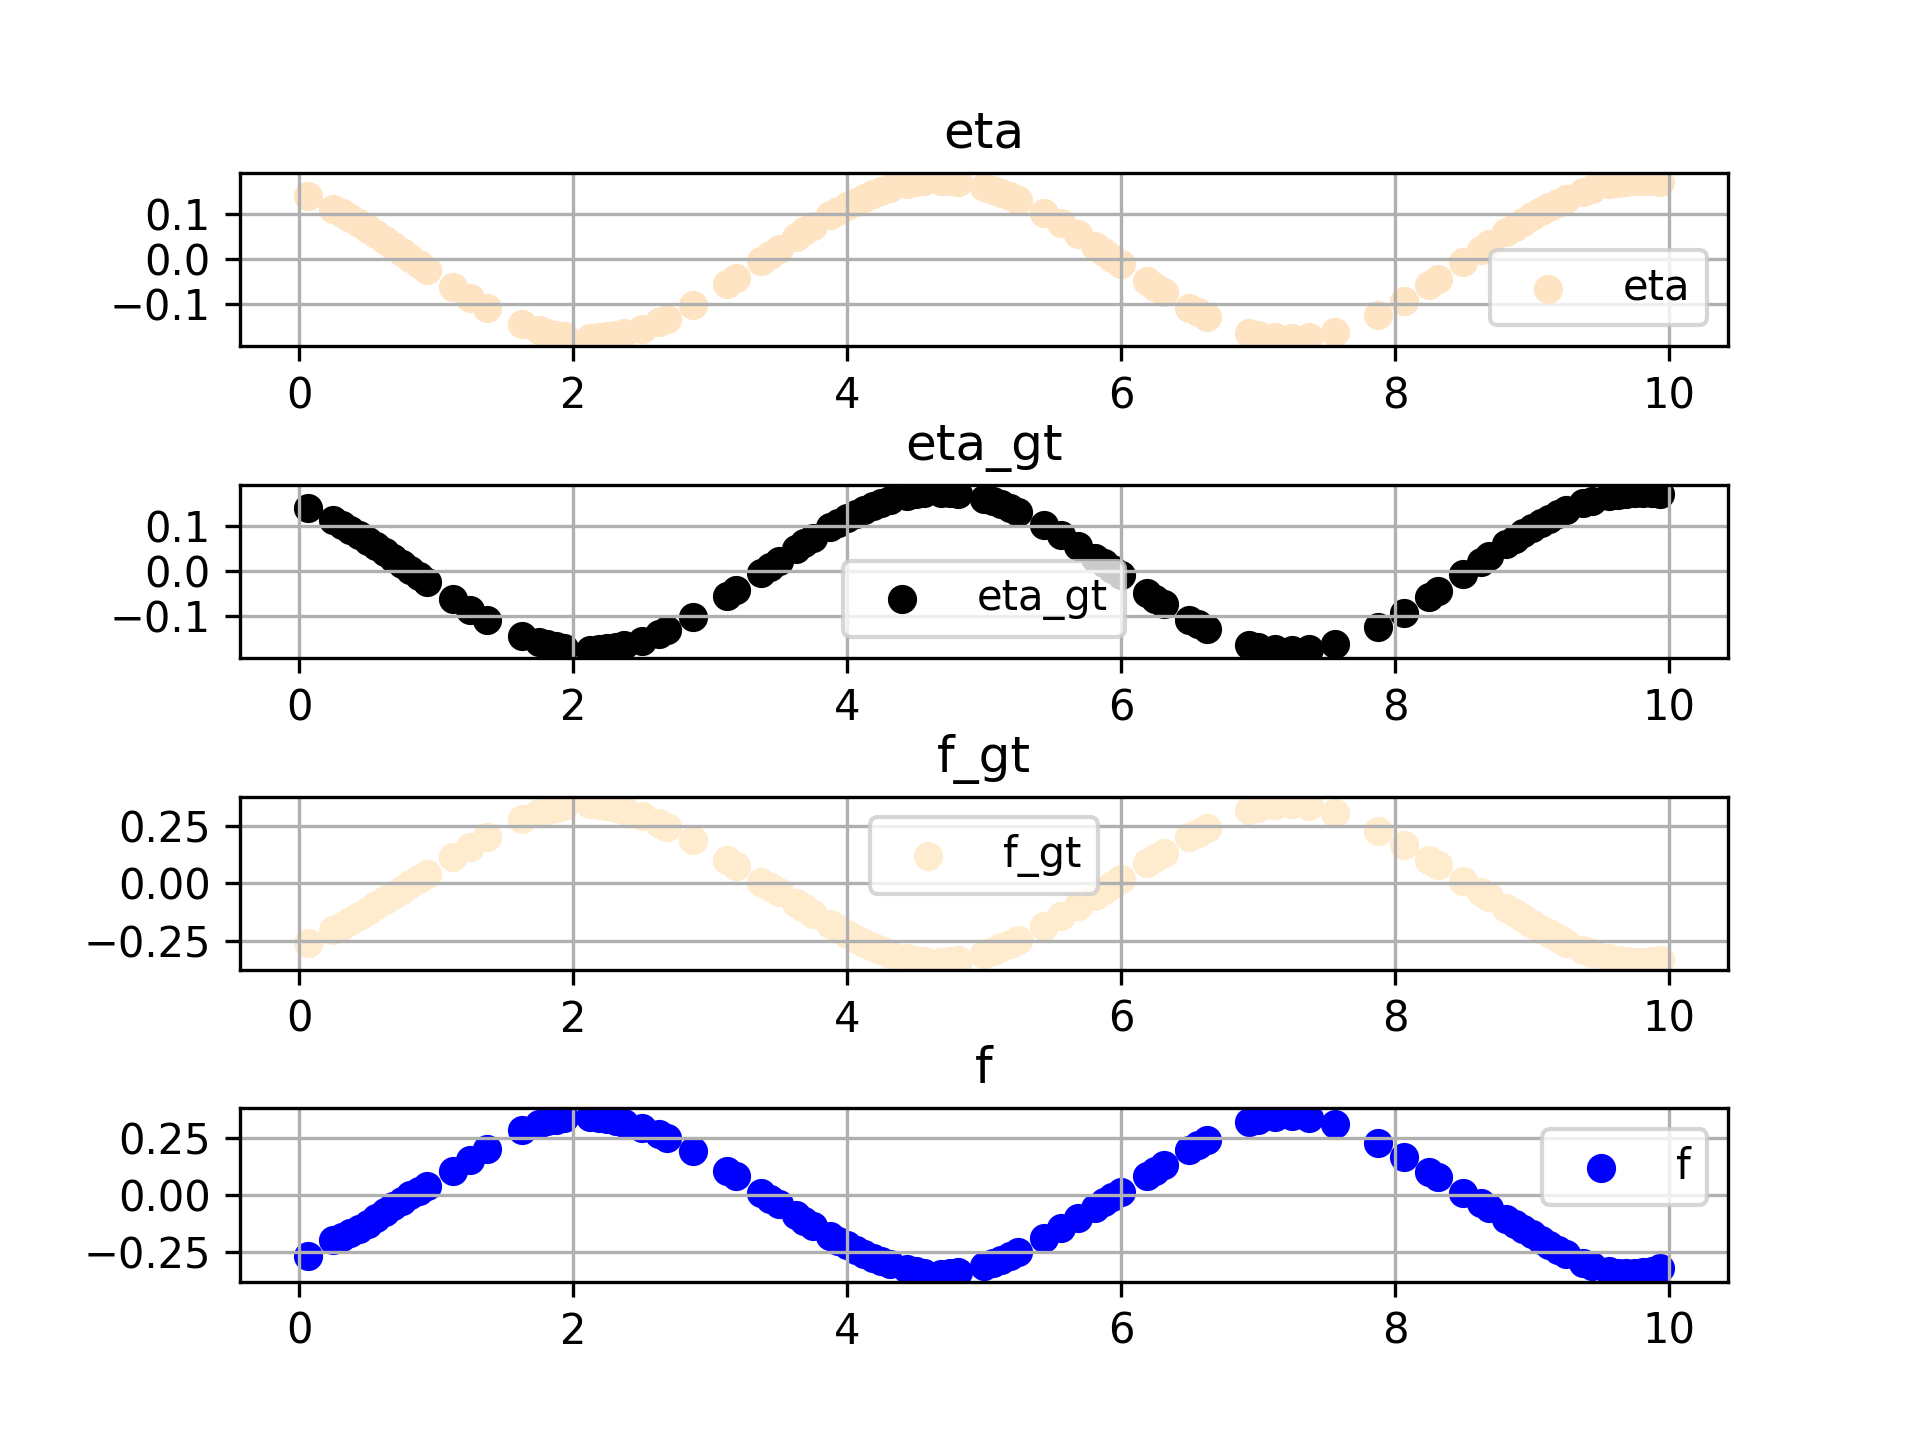
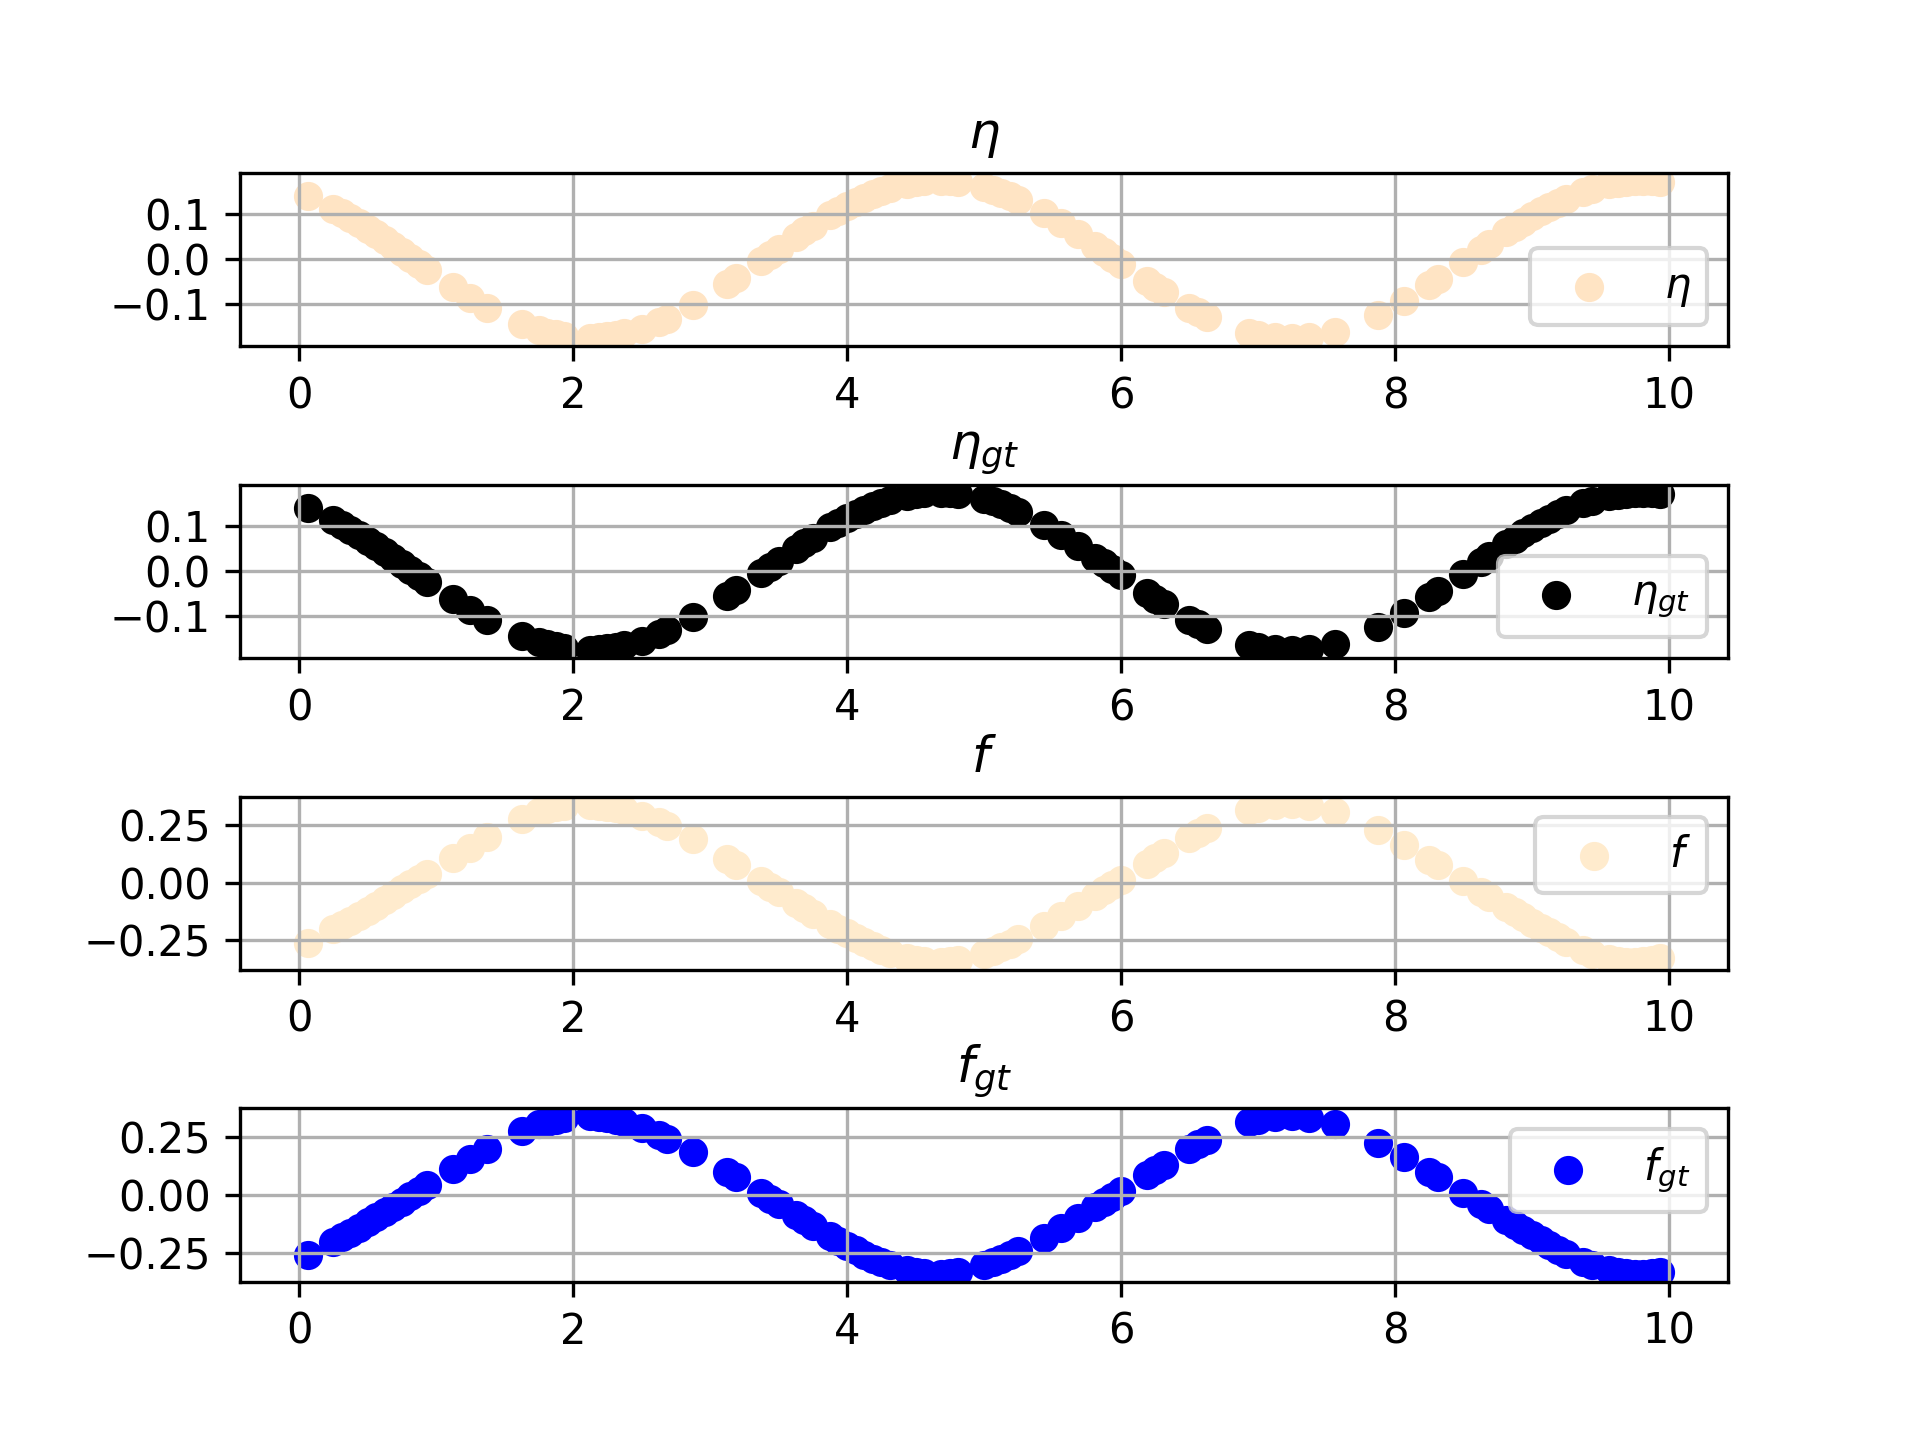
refine docs and update better prediction image

diff --git a/examples/fsi/viv.py b/examples/fsi/viv.py
@@ -105,10 +105,10 @@ if __name__ == "__main__":
             visu_mat,
             ("t_f",),
             {
-                "eta": lambda d: d["eta"],
-                "eta_gt": lambda d: d["eta_gt"],
-                "f_gt": lambda d: d["f_gt"],
-                **equation["VIV"].equations,
+                r"$\eta$": lambda d: d["eta"],  # plot with latex title
+                r"$\eta_{gt}$": lambda d: d["eta_gt"],  # plot with latex title
+                r"$f$": equation["VIV"].equations["f"],  # plot with latex title
+                r"$f_{gt}$": lambda d: d["f_gt"],  # plot with latex title
             },
             1,
             "viv_pred",

diff --git a/docs/zh/examples/viv.md b/docs/zh/examples/viv.md
@@ -23,13 +23,13 @@ $$
 
 ### 3.1 模型构建
 
-在 ViV 问题中，给定时间 $t$，上述系统都有横向振幅 $\eta$ 和升力 $f$ 作为待求解的未知量，并且该系统本身还包含两个参数 $\lambda_1, \lambda_2$。因此我们在这里使用比较简单的 MLP(Multilayer Perceptron, 多层感知机) 来表示 $t$ 到 $(\eta, f)$ 的映射函数 $f: \mathbb{R}^1 \to \mathbb{R}^2$ ，即：
+在 VIV 问题中，给定时间 $t$，上述系统都有横向振幅 $\eta$ 和升力 $f$ 作为待求解的未知量，并且该系统本身还包含两个参数 $\lambda_1, \lambda_2$。因此我们在这里使用比较简单的 MLP(Multilayer Perceptron, 多层感知机) 来表示 $t$ 到 $(\eta, f)$ 的映射函数 $g: \mathbb{R}^1 \to \mathbb{R}^2$ ，即：
 
 $$
-\eta, f = model(t)
+\eta, f = g(t)
 $$
 
-上式中 $model$ 即为 MLP 模型本身，用 PaddleScience 代码表示如下
+上式中 $g$ 即为 MLP 模型本身，用 PaddleScience 代码表示如下
 
 ``` py linenums="28"
 --8<--
@@ -37,13 +37,15 @@ examples/fsi/viv.py:28:29
 --8<--
 ```
 
-为了在计算时，准确快速地访问具体变量的值，我们在这里指定网络模型的输入变量名是 `("t",)`，输出变量名是 `("eta",)`，这些命名与后续代码保持一致。
+为了在计算时，准确快速地访问具体变量的值，我们在这里指定网络模型的输入变量名是 `("t_f",)`，输出变量名是 `("eta",)`，
+ `t_f` 代表输入时间 $t$，`eta` 代表输出振幅 $\eta$ 这些命名与后续代码保持一致。
+
 
 接着通过指定 MLP 的层数、神经元个数以及激活函数，我们就实例化出了一个拥有 5 层隐藏神经元，每层神经元数为 50，使用 "tanh" 作为激活函数的神经网络模型 `model`。
 
 ### 3.2 方程构建
 
-由于 ViV 使用的是 ViV 方程，因此可以直接使用 PaddleScience 内置的 `ViV`。
+由于 VIV 使用的是 VIV 方程，因此可以直接使用 PaddleScience 内置的 `VIV`。
 
 ``` py linenums="31"
 --8<--
@@ -53,11 +55,11 @@ examples/fsi/viv.py:31:32
 
 我们在该方程中添加了两个可学习的参数 `k1` 和 `k2` 来估计 $\lambda_1$ 和 $\lambda_2$，且它们的关系是 $\lambda_1 = e^{k1}, \lambda_2 = e^{k2}$
 
-因此我们在实例化 `ViV` 类时需指定必要的参数：质量 `rho=2`，初始化值`k1=-4`，`k2=0`。
+因此我们在实例化 `VIV` 类时需指定必要的参数：质量 `rho=2`，初始化值`k1=-4`，`k2=0`。
 
 ### 3.3 计算域构建
 
-本文中 ViV 问题作用在 $t \in [0.0625, 9.9375]$ 中的100个离散时间点上，这100个时间点已经保存在文件 `examples/fsi/VIV_Training_Neta100.mat` 作为输入数据，因此不需要显式构建计算域。
+本文中 VIV 问题作用在 $t \in [0.0625, 9.9375]$ 中的100个离散时间点上，这100个时间点已经保存在文件 `examples/fsi/VIV_Training_Neta100.mat` 作为输入数据，因此不需要显式构建计算域。
 
 ### 3.4 约束构建
 
@@ -85,7 +87,7 @@ examples/fsi/viv.py:51:57
 
 第二个参数是损失函数，此处我们选用常用的MSE函数，且 `reduction` 设置为 `"mean"`，即我们会将参与计算的所有数据点产生的损失项求和取平均；
 
-第三个参数是方程表达式，用于描述如何计算约束目标，此处填入 `eta` 的计算函数和在 [3.2 方程构建](#32) 章节中实例化好的 `equation["ViV"].equations`；
+第三个参数是方程表达式，用于描述如何计算约束目标，此处填入 `eta` 的计算函数和在 [3.2 方程构建](#32) 章节中实例化好的 `equation["VIV"].equations`；
 
 第四个参数是约束条件的名字，我们需要给每一个约束条件命名，方便后续对其索引。此处我们命名为 "Sup" 即可。
 
@@ -113,7 +115,7 @@ examples/fsi/viv.py:63:65
 
 ???+ note "说明"
 
-    ViV方程含有两个可学习参数k1和k2，因此需要将方程与 `model` 一起传入优化器。
+    VIV 方程含有两个可学习参数k1和k2，因此需要将方程与 `model` 一起传入优化器。
 
 ``` py linenums="67"
 --8<--
